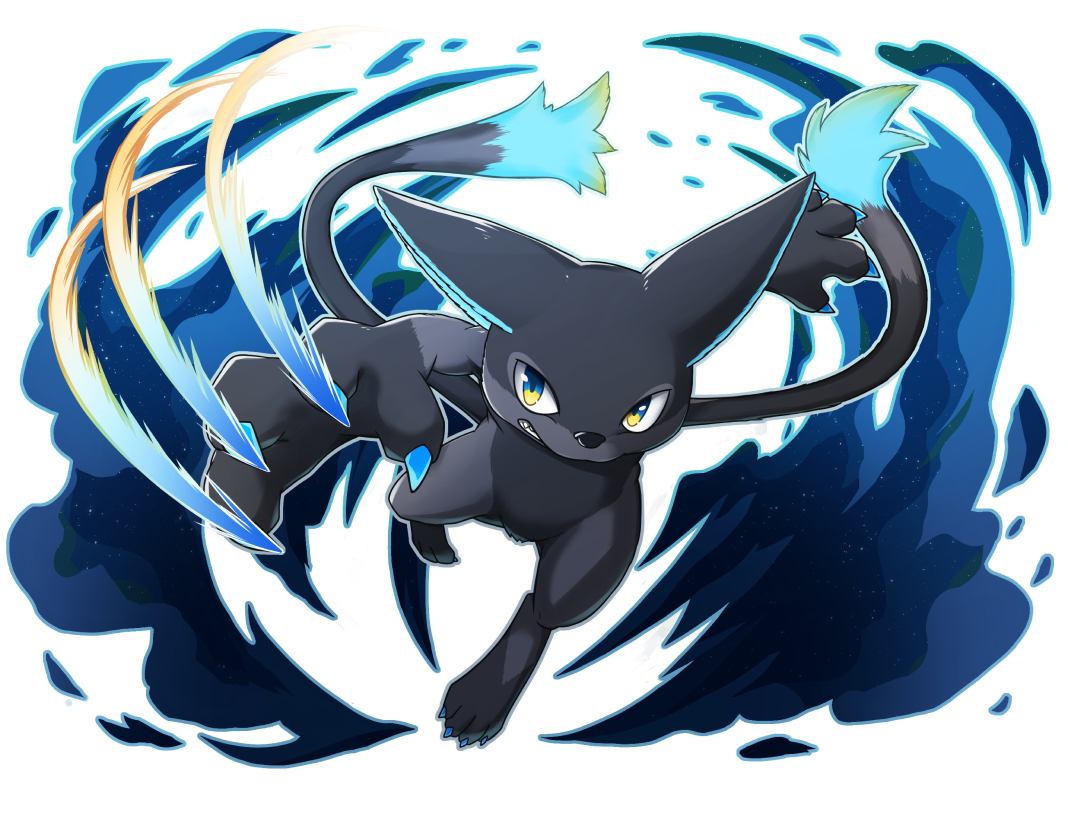
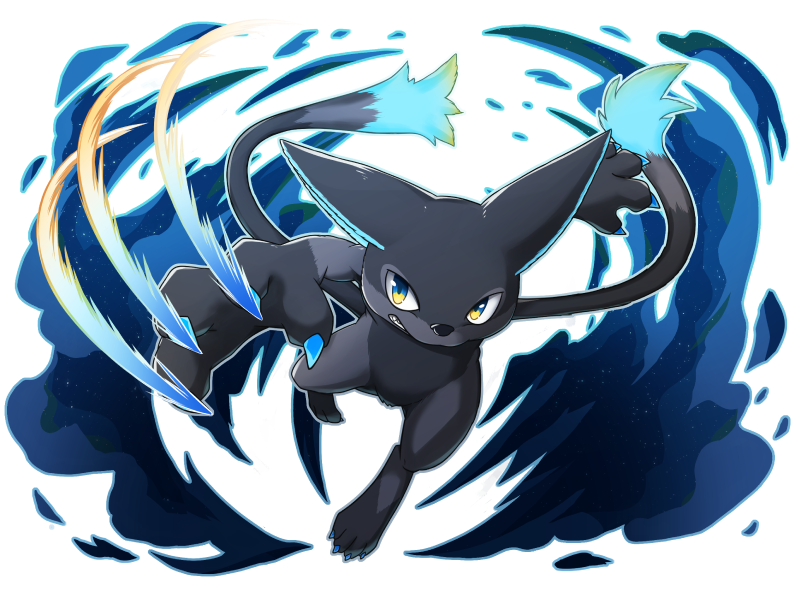
jpeg

diff --git a/src/sass/top/fv.scss b/src/sass/top/fv.scss
@@ -108,7 +108,7 @@ section.fv {
       & figure {
         width: 100%;
         height: 100%;
-        @include path.bg-img("top/fv-tcg.png", cover);
+        @include path.bg-img("top/fv-tcg.jpeg", cover);
         background-position: 50% 45%;
         transition: 1s;
         transition-timing-function: ease.$custom1;
@@ -133,7 +133,7 @@ section.fv {
       & figure {
         width: 100%;
         height: 100%;
-        @include path.bg-img("top/fv-cb.png", cover);
+        @include path.bg-img("top/fv-cb.jpeg", cover);
         background-position: 50% 40%;
         transition: 1s;
         transition-timing-function: ease.$custom1;

diff --git a/src/sass/top/work.scss b/src/sass/top/work.scss
@@ -171,7 +171,7 @@ section.work {
         & figure {
           width: 100%;
           height: 100%;
-          @include path.bg-img("top/fv-tcg.png", cover);
+          @include path.bg-img("top/fv-tcg.jpeg", cover);
           background-position: 50% 10%;
           transition: 1s;
           position: absolute;
@@ -197,7 +197,7 @@ section.work {
         & figure {
           width: 100%;
           height: 100%;
-          @include path.bg-img("top/fv-cb.png", cover);
+          @include path.bg-img("top/fv-cb.jpeg", cover);
           background-position: 50% 12%;
           transition: 1s;
           position: absolute;

diff --git a/src/assets/js/main.js b/src/assets/js/main.js
@@ -1,6 +1,6 @@
 "use strict";
 
-navigation;
+// navigation
 const nav = document.querySelector("nav");
 const hambergarBtn = document.getElementById("hambergar-btn");
 const navTitle = document.querySelectorAll(".inner li");
